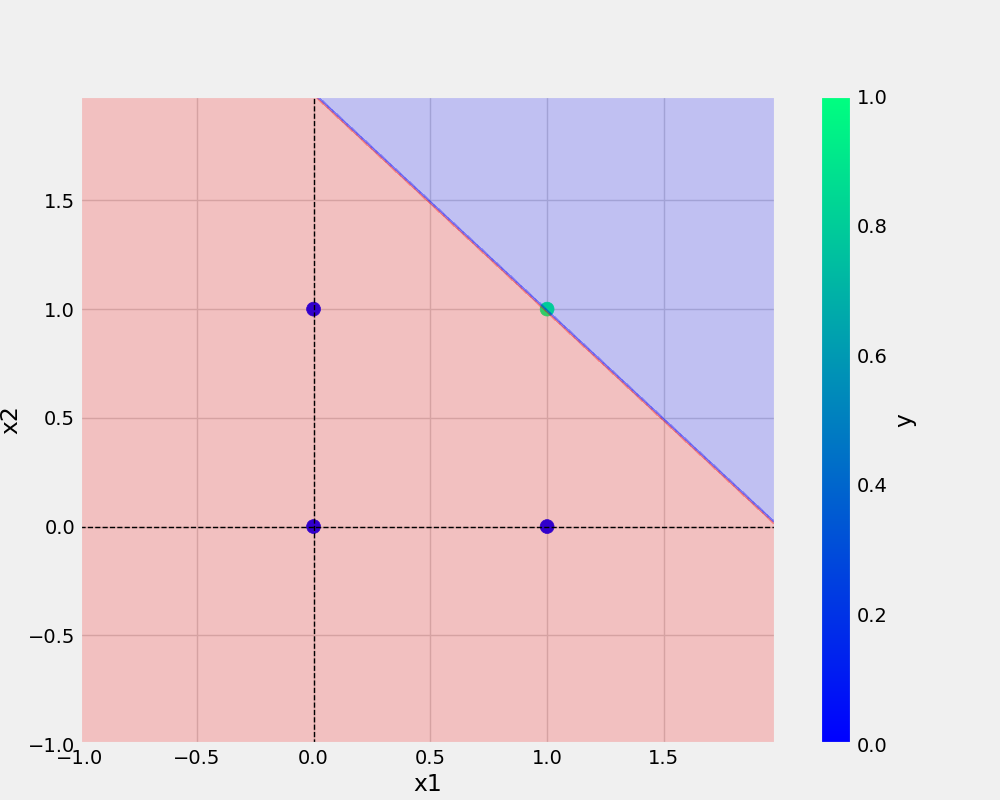
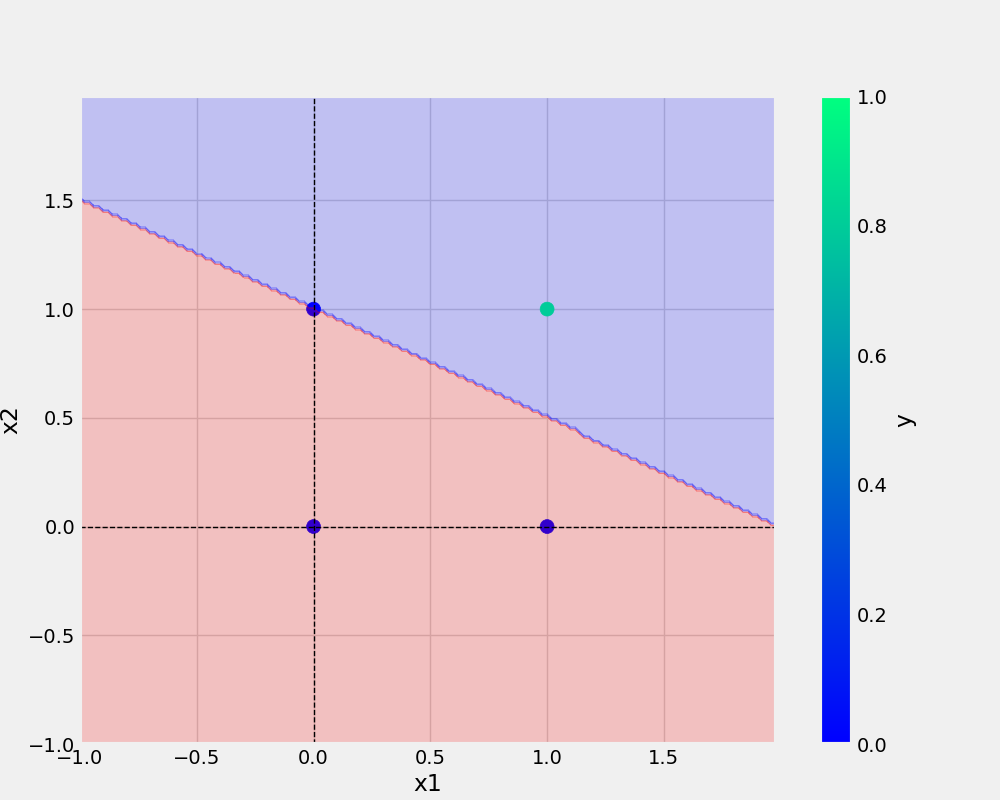
organized commit

Changed region(s): [[0.062, 0.125, 0.775, 0.6562]]

diff --git a/and.py b/and.py
@@ -4,27 +4,32 @@ from utils.all_utils import prepare_data, save_model, save_plot
 import numpy as np
 
 
-AND = {
-    "x1": [0, 0, 1, 1],
-    "x2": [0, 1, 0, 1],
-    "y": [0, 0, 0, 1],
-}
+def main(data, eta, epochs, filename, plotFileName):
 
-df = pd.DataFrame(AND)
+    df = pd.DataFrame(data)
 
-print(df)
+    print(df)
 
+    X, y = prepare_data(df)
 
-X, y = prepare_data(df)
+    model = Perceptron(eta=ETA, epochs=EPOCHS)
+    model.fit(X, y)
 
-ETA = 0.3  # 0 and 1
-EPOCHS = 10
+    _ = model.total_loss()
 
-model = Perceptron(eta=ETA, epochs=EPOCHS)
-model.fit(X, y)
-
-_ = model.total_loss()
+    save_model(model, filename=filename)
+    save_plot(df, plotFileName, model)
 
 
-save_model(model, filename="and.model")
-save_plot(df, "and.png", model)
+if __name__ == "__main__":
+
+    AND = {
+        "x1": [0, 0, 1, 1],
+        "x2": [0, 1, 0, 1],
+        "y": [0, 0, 0, 1],
+    }
+
+    ETA = 0.3  # 0 and 1
+    EPOCHS = 10
+    main(data=AND, eta=ETA, epochs=EPOCHS,
+         filename="and.model", plotFileName="and.png")

diff --git a/or.py b/or.py
@@ -1,0 +1,35 @@
+from utils.model import Perceptron
+import pandas as pd
+from utils.all_utils import prepare_data, save_model, save_plot
+import numpy as np
+
+
+def main(data, eta, epochs, filename, plotFileName):
+
+    df = pd.DataFrame(data)
+
+    print(df)
+
+    X, y = prepare_data(df)
+
+    model = Perceptron(eta=ETA, epochs=EPOCHS)
+    model.fit(X, y)
+
+    _ = model.total_loss()
+
+    save_model(model, filename=filename)
+    save_plot(df, plotFileName, model)
+
+
+if __name__ == "__main__":
+
+    AND = {
+        "x1": [0, 0, 1, 1],
+        "x2": [0, 1, 0, 1],
+        "y": [0, 1, 1, 1],
+    }
+
+    ETA = 0.3  # 0 and 1
+    EPOCHS = 10
+    main(data=AND, eta=ETA, epochs=EPOCHS,
+         filename="or.model", plotFileName="or.png")
